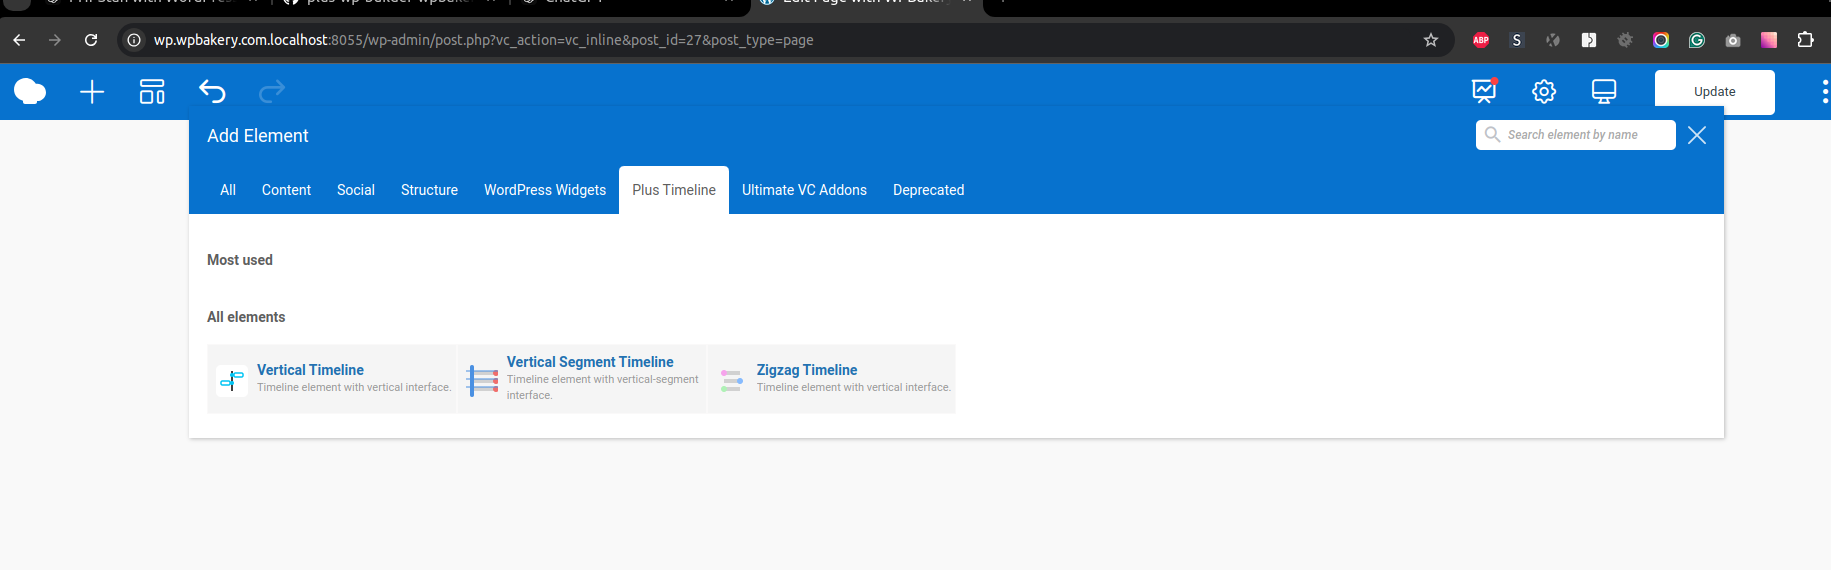
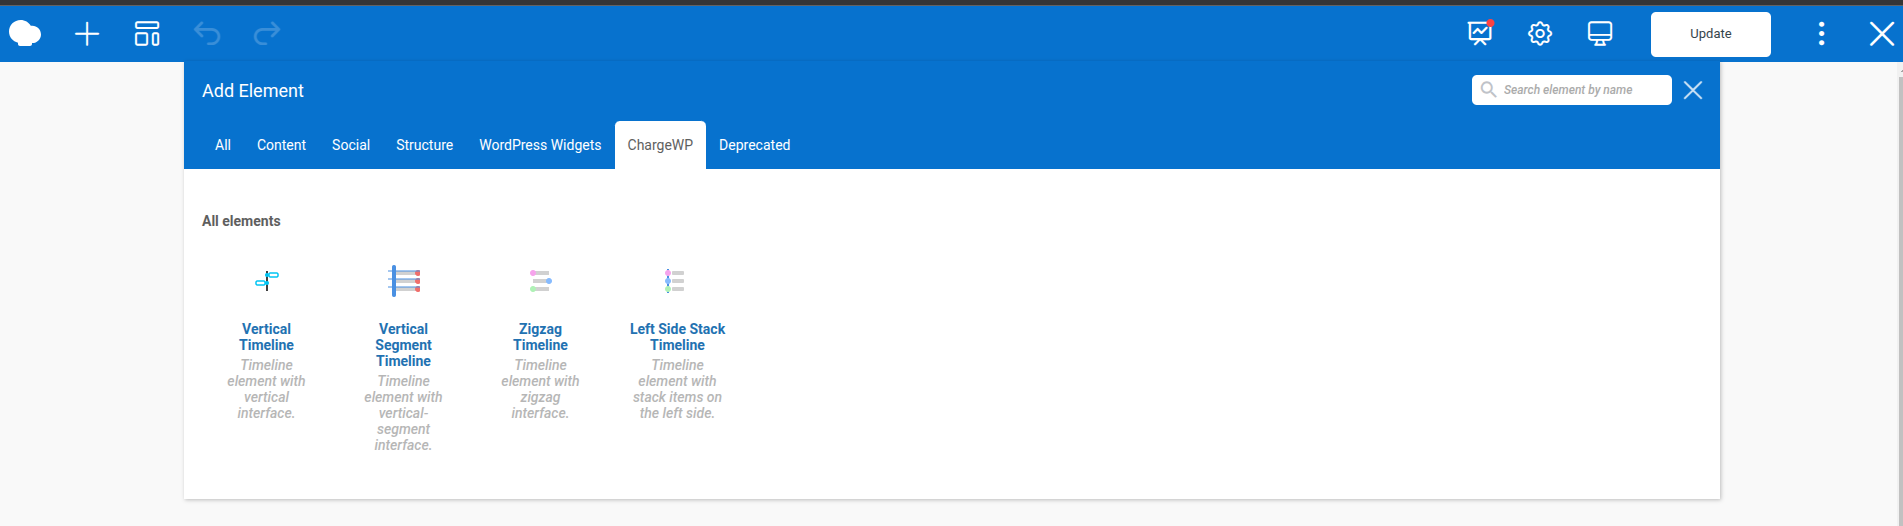
Readme update

diff --git a/readme.md b/readme.md
@@ -1,0 +1,37 @@
+## Description
+
+This WordPress plugin introduces well-crafted, and fully customizable timeline addons for the [WPBakery Page Builder](https://wpbakery.com/).
+All addons support both front-end and back-end WPBakery editors.
+
+### 1. Vertical Timeline Addon.
+
+![Vertical Timeline Element](assets/images/github-reame/screen-3.png)
+
+### 2. ZigZag Timeline Addon.
+
+![ZigZag Timeline Element](assets/images/github-reame/screen-2.png)
+
+
+### 3. Vertical Segment Timeline Addon.
+
+![Vertical Segment Timeline Element](assets/images/github-reame/screen-4.png)
+
+## Installation
+You can directly install the plugin from the GitHub repository.
+1. Clone the repository to the `/wp-content/plugins/` directory.
+2. Activate the plugin through the 'Plugins' menu in WordPress.
+
+That's it! If you go to any WPBakery Page Builder editor, you'll find new elements under the 'ChargeWp' tab in the 'Add Element' WPBakery popup.
+
+![](assets/images/github-reame/screen-1.png)
+
+## Requirements
+1. WPBakery Page Builder version 5.0+
+2. PHP version 5.6+
+3. Wordpress version 4.9+
+   
+## Browser support
+1. Chrome version 49+
+2. Safari 12+
+3. Firefox 78+
+4. Edge: Chromium-based Edge (79+)
